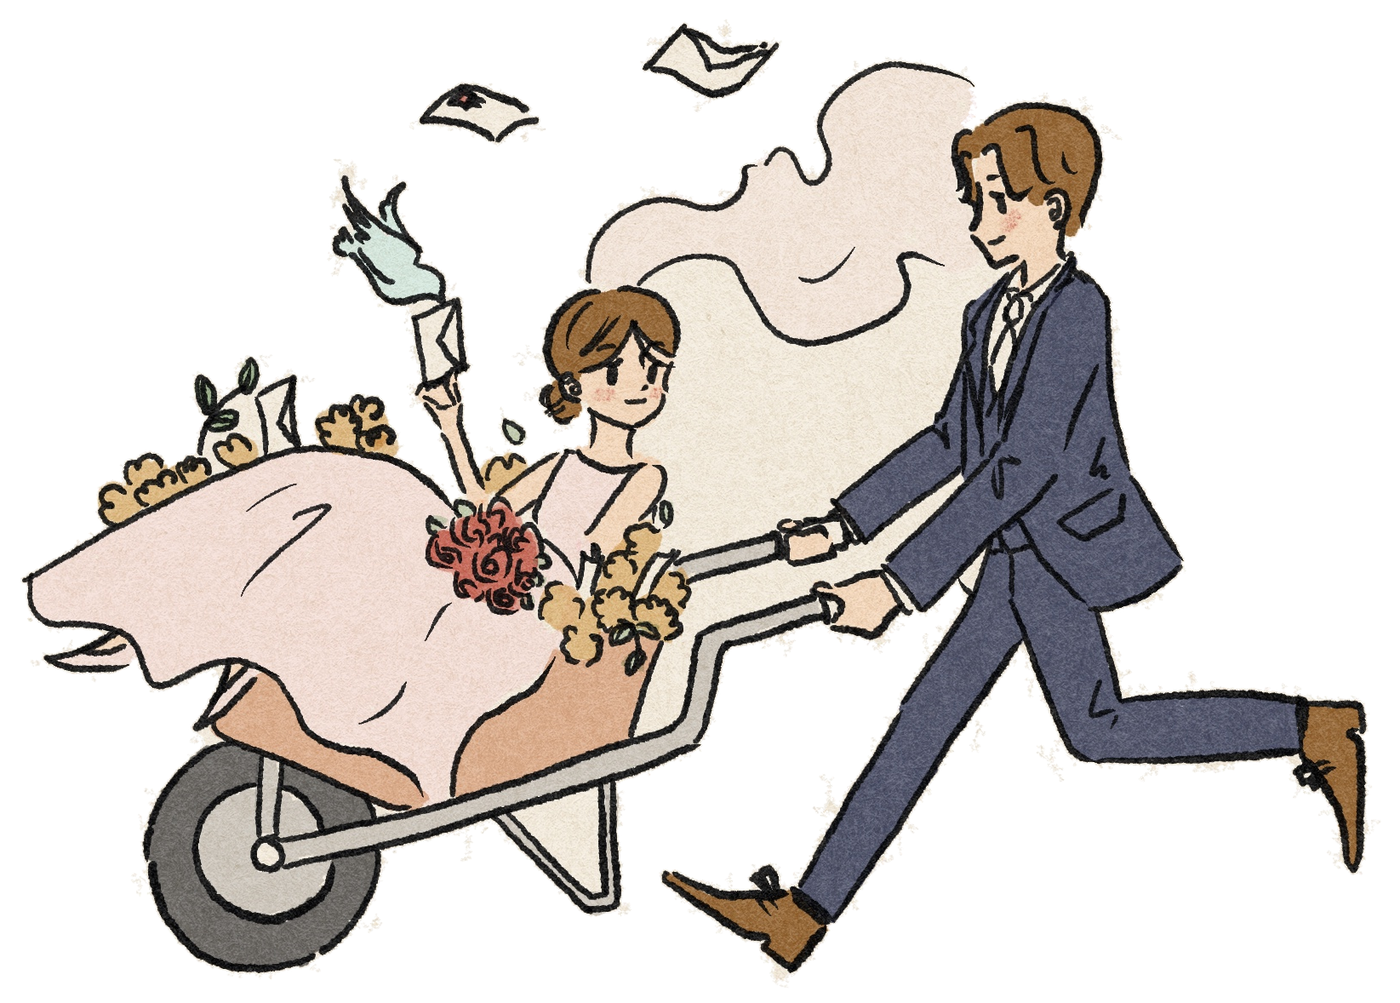
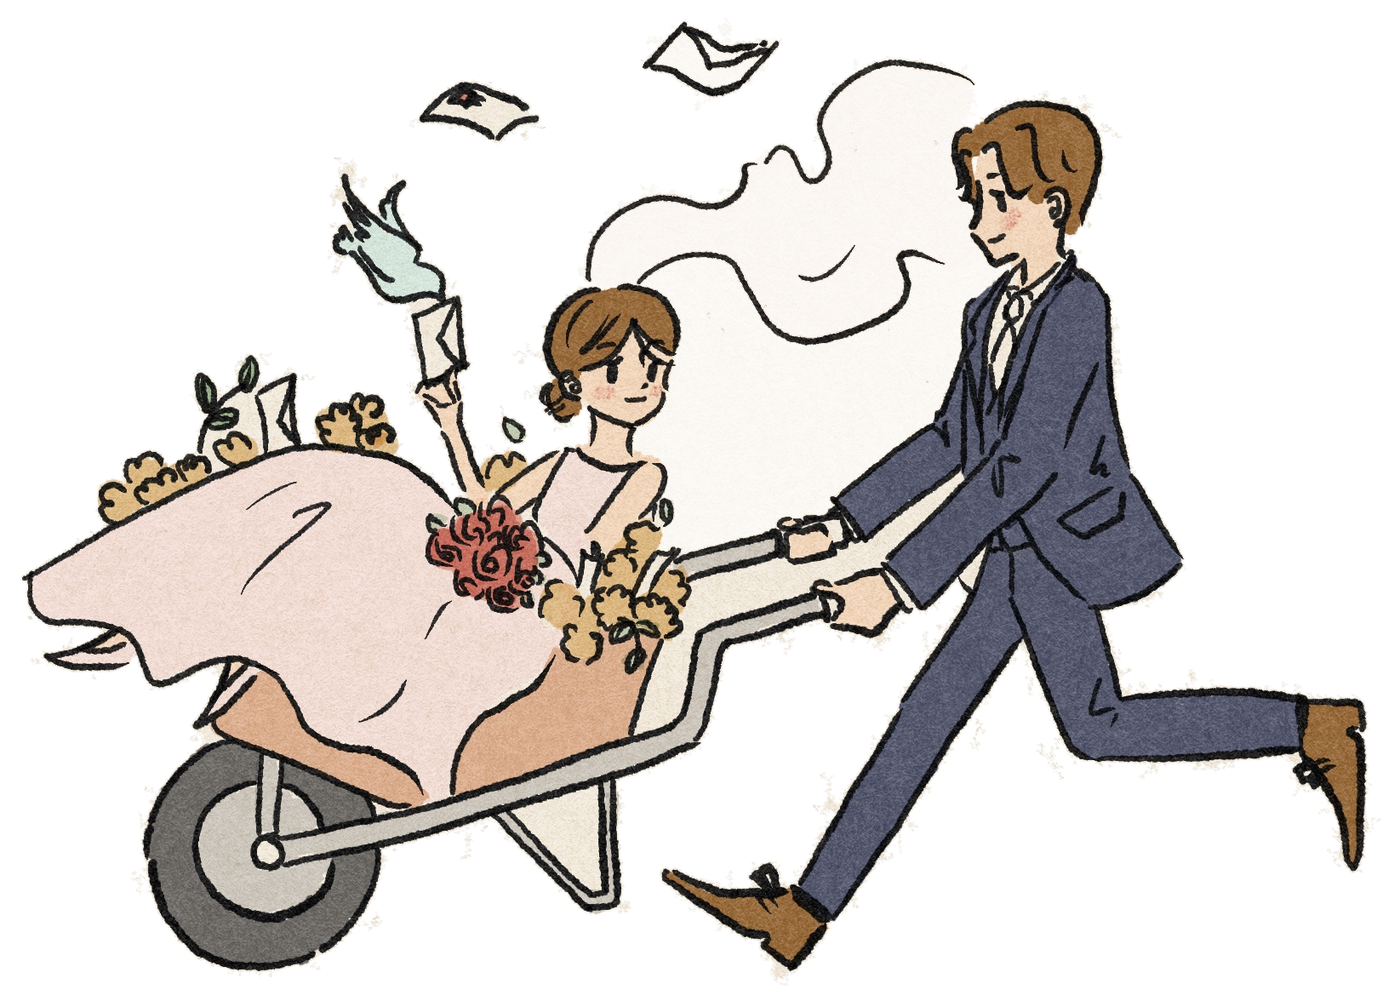
수레 그림 베일 반투명 처리(--sheer), 그림 주소에 캐시 버전 추가
- 히어로가 예전 누끼로 보이던 원인: 그림 파일 주소가 같아 브라우저가 캐시를 씀 → running/wheelbarrow/vine 주소에 ?v= 추가
- 수레 그림의 베일은 원본에서 드레스와 같은 연분홍이라 흰 배경에서 종이 잔여물처럼 보임 → 선으로 둘러싸인 연한 영역 단위로 알파 0.3 처리
- cut-paper.py: --box 의 x 오프셋 누락 수정, --sheer 옵션

diff --git a/index.html b/index.html
@@ -25,7 +25,7 @@
   <link rel="preconnect" href="https://fonts.googleapis.com">
   <link rel="preconnect" href="https://fonts.gstatic.com" crossorigin>
   <link href="https://fonts.googleapis.com/css2?family=Cormorant+Garamond:ital,wght@0,400;1,400&family=Noto+Serif+KR:wght@300;400&family=Caveat:wght@500;600&family=Nanum+Pen+Script&display=swap" rel="stylesheet">
-  <link rel="stylesheet" href="css/style.css?v=20261018e">
+  <link rel="stylesheet" href="css/style.css?v=20261018f">
 </head>
 <body>
 
@@ -52,8 +52,8 @@
     <!-- 실물 청첩장 앞면 그림(흑백 선화+반짝이) — assets/source/실물 앞면_달리는 신랑신부.jpg → tools/cut-paper.py -->
     <figure class="hero__art reveal">
       <picture>
-        <source type="image/webp" srcset="assets/illust/running@800.webp 800w, assets/illust/running.webp 1400w" sizes="(max-width: 520px) 90vw, 420px">
-        <img src="assets/illust/running@800.png" srcset="assets/illust/running@800.png 800w, assets/illust/running.png 1400w" sizes="(max-width: 520px) 90vw, 420px" alt="달려가는 신랑 신부 그림">
+        <source type="image/webp" srcset="assets/illust/running@800.webp?v=20261018f 800w, assets/illust/running.webp?v=20261018f 1400w" sizes="(max-width: 520px) 90vw, 420px">
+        <img src="assets/illust/running@800.png?v=20261018f" srcset="assets/illust/running@800.png?v=20261018f 800w, assets/illust/running.png?v=20261018f 1400w" sizes="(max-width: 520px) 90vw, 420px" alt="달려가는 신랑 신부 그림">
       </picture>
     </figure>
     <h1 class="hero__names reveal">
@@ -71,8 +71,8 @@
   <section class="section greeting" id="greeting">
     <!-- 실물 청첩장 뒷면의 세로 꽃 덩굴 -->
     <picture class="greeting__vine reveal" aria-hidden="true">
-      <source type="image/webp" srcset="assets/illust/vine.webp">
-      <img src="assets/illust/vine.png" alt="">
+      <source type="image/webp" srcset="assets/illust/vine.webp?v=20261018f">
+      <img src="assets/illust/vine.png?v=20261018f" alt="">
     </picture>
     <p class="section__label reveal">Invitation</p>
     <h2 class="section__title reveal" data-bind="greeting.title">소중한 분들을 초대합니다</h2>
@@ -173,8 +173,8 @@
     <h2 class="section__title reveal">사진과 영상을 편지로 보내주세요</h2>
     <figure class="letterbox__art reveal">
       <picture>
-        <source type="image/webp" srcset="assets/illust/wheelbarrow@800.webp 800w, assets/illust/wheelbarrow.webp 1400w" sizes="(max-width: 520px) 80vw, 360px">
-        <img src="assets/illust/wheelbarrow@800.png" srcset="assets/illust/wheelbarrow@800.png 800w, assets/illust/wheelbarrow.png 1400w" sizes="(max-width: 520px) 80vw, 360px" alt="편지가 가득한 수레에 탄 신부를 미는 신랑 그림" loading="lazy">
+        <source type="image/webp" srcset="assets/illust/wheelbarrow@800.webp?v=20261018f 800w, assets/illust/wheelbarrow.webp?v=20261018f 1400w" sizes="(max-width: 520px) 80vw, 360px">
+        <img src="assets/illust/wheelbarrow@800.png?v=20261018f" srcset="assets/illust/wheelbarrow@800.png?v=20261018f 800w, assets/illust/wheelbarrow.png?v=20261018f 1400w" sizes="(max-width: 520px) 80vw, 360px" alt="편지가 가득한 수레에 탄 신부를 미는 신랑 그림" loading="lazy">
       </picture>
     </figure>
     <p class="letterbox__desc reveal">결혼식 날 찍어주신 사진과 영상을 이곳에 담아주시면 저희 두 사람에게 바로 도착합니다.</p>
@@ -228,8 +228,8 @@
 
 <div class="toast" id="toast" role="status" aria-live="polite"></div>
 
-<script src="js/config.js?v=20261018e"></script>
-<script src="js/photos.js?v=20261018e"></script>
-<script src="js/main.js?v=20261018e"></script>
+<script src="js/config.js?v=20261018f"></script>
+<script src="js/photos.js?v=20261018f"></script>
+<script src="js/main.js?v=20261018f"></script>
 </body>
 </html>

diff --git a/tools/cut-paper.py b/tools/cut-paper.py
@@ -11,6 +11,7 @@
   --min-area N         N px 미만 덩어리는 종이 얼룩으로 보고 버림 (기본 400)
   --paper T            "종이색" 판정 거리 (기본 5.5). 연분홍 드레스·피부가 빠지면 낮추고, 종이가 남으면 높인다
   --pad N              여백 px (기본 24, 리사이즈 전 기준)
+  --sheer L,T,R,B[,A]  이 영역(원본 px) 안의 연한 색(종이와 비슷한 베일 등)을 알파 A(기본 0.3)로 반투명하게 — 흰 배경에서 베일이 종이 잔여물처럼 보일 때
 
 방식 (스티커 컷):
   1) 종이 질감 노이즈를 흐려서 없앤 뒤, 가장자리 종이색(중앙값)과의 색 거리가 T 미만인 픽셀을 "종이 후보"로 본다
@@ -41,10 +42,10 @@ full = np.asarray(im).astype(np.float32)
 edge = np.concatenate([full[:60].reshape(-1, 3), full[-60:].reshape(-1, 3), full[:, :60].reshape(-1, 3), full[:, -60:].reshape(-1, 3)])
 bg = np.median(edge, 0)
 
-oy = 0
+ox = oy = 0
 if "box" in opt:
     L, T, R, B = map(int, opt["box"].split(","))
-    im = im.crop((L, T, R, B)); oy = T
+    im = im.crop((L, T, R, B)); ox, oy = L, T
 rgb = np.asarray(im).astype(np.float32)
 h, w = rgb.shape[:2]
 
@@ -90,9 +91,26 @@ alpha = np.where(fg, alpha, 0.0)
 alpha = ndimage.gaussian_filter(alpha, 0.6)
 alpha = np.where(fg, alpha, np.minimum(alpha, 0.5)).astype(np.float32)   # 바깥으로 번진 것은 약하게만
 alpha = np.clip(alpha, 0, 1).astype(np.float32)
+if "sheer" in opt:                                            # 베일 등 연한 영역만 반투명 (선·진한 색은 그대로)
+    v = [float(x) for x in opt["sheer"].split(",")]
+    L2, T2, R2, B2 = [int(x) for x in v[:4]]; A = v[4] if len(v) > 4 else 0.3
+    L2 -= ox; R2 -= ox; T2 -= oy; B2 -= oy
+    print("sheer region (crop px):", L2, T2, R2, B2)
+    region = np.zeros_like(fg); region[max(0, T2):max(0, B2), max(0, L2):max(0, R2)] = True
+    # 연한 색 덩어리(선으로 둘러싸인 영역) 단위로 고른다: 덩어리의 60% 이상이 상자 안에 있으면 통째로 반투명 → 상자 경계가 보이지 않음
+    plab, pn = ndimage.label(fg & (d_fine < 30))
+    pidx = np.arange(pn + 1)
+    inside = ndimage.sum(region, plab, index=pidx); total = ndimage.sum(np.ones_like(plab), plab, index=pidx)
+    pick = (inside >= 0.6 * np.maximum(total, 1)) & (total >= 50); pick[0] = False
+    pale = pick[plab]
+    print("sheer: pale regions picked", int(pick.sum()), "px", int(pale.sum()))
+    alpha = np.where(pale, np.minimum(alpha, A), alpha).astype(np.float32)
+else:
+    pale = np.zeros_like(fg)
 a3 = np.clip(alpha, 0.15, 1)[..., None]
 ink = (rgb - (1 - a3) * bg) / a3                              # orig = a*ink + (1-a)*bg
 ink = np.where(alpha[..., None] > 0, ink, rgb)
+ink = np.where(pale[..., None], rgb, ink)                     # 반투명 처리한 베일은 원래 색 그대로 (되돌리면 다시 진해짐)
 out = Image.fromarray(np.dstack([np.clip(ink, 0, 255), alpha * 255]).astype(np.uint8), "RGBA")
 
 pad = int(opt.get("pad", 24))

diff --git a/README.md b/README.md
@@ -55,12 +55,13 @@ python -m http.server 8000
 ```
 python tools/cut-paper.py "assets/source/실물 앞면_달리는 신랑신부(컬러).jpg" running     1400 --box 500,800,3000,2150 --min-area 250
 python tools/cut-paper.py "assets/source/실물 앞면_달리는 신랑신부(컬러).jpg" running@800  800 --box 500,800,3000,2150 --min-area 250
-python tools/cut-paper.py "assets/source/수레 신랑신부(컬러).jpg"             wheelbarrow 1400 --box 700,800,2600,2150 --min-area 250
-python tools/cut-paper.py "assets/source/수레 신랑신부(컬러).jpg"             wheelbarrow@800 800 --box 700,800,2600,2150 --min-area 250
+python tools/cut-paper.py "assets/source/수레 신랑신부(컬러).jpg"             wheelbarrow 1400 --box 700,800,2600,2150 --min-area 250 --sheer 1480,860,2010,1310
+python tools/cut-paper.py "assets/source/수레 신랑신부(컬러).jpg"             wheelbarrow@800 800 --box 700,800,2600,2150 --min-area 250 --sheer 1480,860,2010,1310
 python tools/cut-paper.py "assets/source/실물 뒷면_꽃덩굴.jpg"                vine        1200 --box 1560,0,1980,2480 --min-area 250 --pad 12
 python tools/cut-paper.py "assets/source/실물 앞면_달리는 신랑신부.jpg"       names       2000 --box 900,200,2800,1030 --drop-below 840 --min-area 250
 ```
-`--drop-above / --drop-below` 는 손글씨와 그림을 분리하는 옵션. 종이색과 비슷한 연분홍 드레스·피부·베일이 빠지면 `--paper` 값을 낮춘다(기본 5.5). OG 는 `names` + `running` 을 1200×630 흰 바탕에 올린 것.
+`--drop-above / --drop-below` 는 손글씨와 그림을 분리하는 옵션. 종이색과 비슷한 연분홍 드레스·피부·베일이 빠지면 `--paper` 값을 낮춘다(기본 5.5). `--sheer` 는 수레 그림의 베일(원본에서 드레스와 같은 연분홍)을 흰 배경에서 베일로 읽히게 반투명 처리하는 영역.
+그림 파일 주소에는 `?v=` 가 붙어 있다 — 그림을 바꾸면 `index.html` 에서 이 값도 올려야 브라우저 캐시가 갱신된다. OG 는 `names` + `running` 을 1200×630 흰 바탕에 올린 것.
 OG 를 바꾸면 developers.kakao.com/tool/clear/og 에서 캐시 삭제.
 
 ### 3) 실물에서 가져온 문구·폰트 (이미 반영됨)
